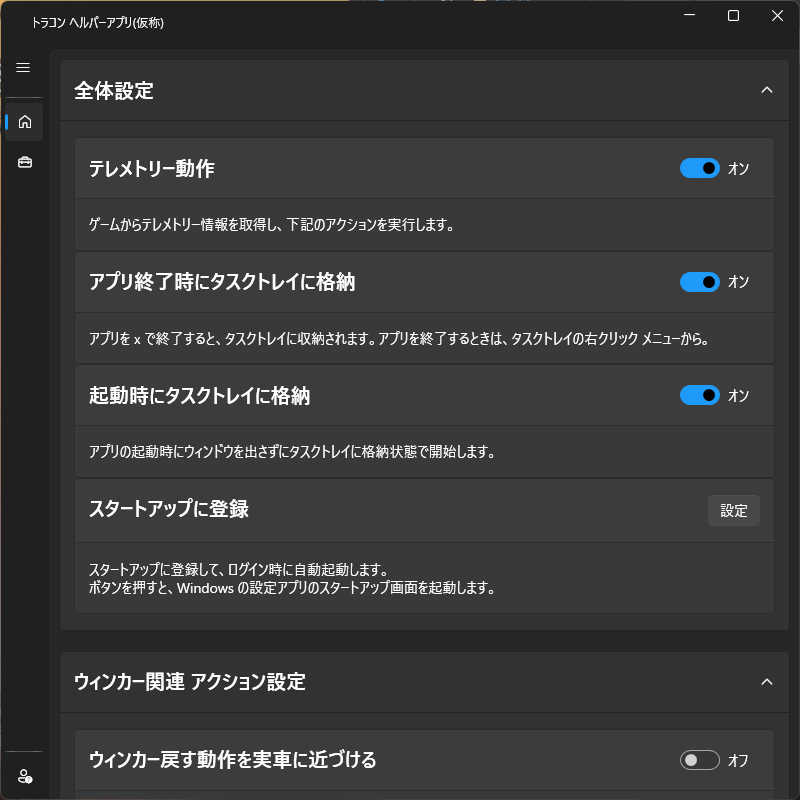
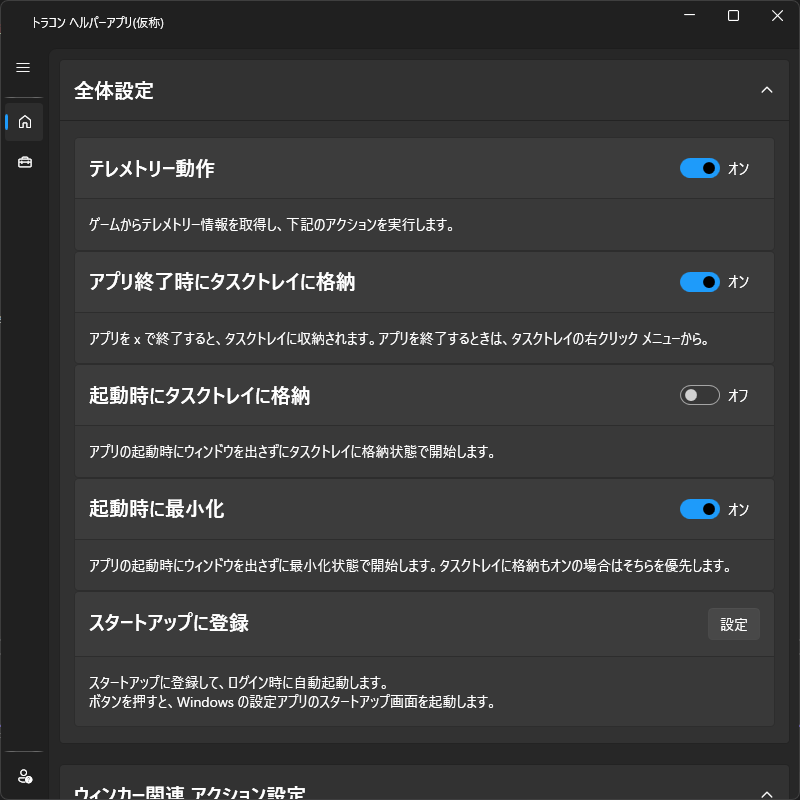
Feature/add minimize on start (#79)

diff --git a/ToraConHelper/Views/HomePage.xaml b/ToraConHelper/Views/HomePage.xaml
@@ -89,6 +89,19 @@
                             <ColumnDefinition />
                             <ColumnDefinition Width="Auto" />
                         </Grid.ColumnDefinitions>
+                        <TextBlock Style="{StaticResource switchTitleTextBlockStyle}" Text="起動時に最小化" />
+                        <ui:ToggleSwitch Grid.Column="1" IsChecked="{Binding Path=MinimizeOnStart}" />
+                    </Grid>
+                    <ui:Card.Footer>
+                        <TextBlock Text="アプリの起動時にウィンドウを出さずに最小化状態で開始します。タスクトレイに格納もオンの場合はそちらを優先します。" />
+                    </ui:Card.Footer>
+                </ui:Card>
+                <ui:Card>
+                    <Grid>
+                        <Grid.ColumnDefinitions>
+                            <ColumnDefinition />
+                            <ColumnDefinition Width="Auto" />
+                        </Grid.ColumnDefinitions>
                         <TextBlock Style="{StaticResource switchTitleTextBlockStyle}" Text="スタートアップに登録" />
                         <ui:Button Grid.Column="1" Command="{Binding Path=RegisterStartupCommand}" Content="設定" />
                     </Grid>

diff --git a/ToraConHelper/Installer/InstallerWindow.xaml b/ToraConHelper/Installer/InstallerWindow.xaml
@@ -13,7 +13,7 @@
     mc:Ignorable="d">
     <Window.Resources>
         <Style TargetType="Button">
-            <Setter Property="Margin" Value="5,0" />
+            <Setter Property="Margin" Value="5,5,0,0" />
             <Setter Property="Padding" Value="5"/>
         </Style>
     </Window.Resources>

diff --git a/ToraConHelper/ViewModels/ViewModel.JsonSerialize.cs b/ToraConHelper/ViewModels/ViewModel.JsonSerialize.cs
@@ -12,6 +12,7 @@ public partial class ViewModel
             IsActive = IsActive,
             GoToTasktrayOnAppClose = GoToTasktrayOnAppClose,
             TaskTrayOnStart = TaskTrayOnStart,
+            MinimizeOnStart = MinimizeOnStart,
             LastShownPage = LastShownPage,
 
             BlinkerLikeRealCarActionEnabled = BlinkerLikeRealCarActionEnabled,
@@ -49,6 +50,7 @@ public partial class ViewModel
         IsActive = s.IsActive;
         GoToTasktrayOnAppClose = s.GoToTasktrayOnAppClose;
         TaskTrayOnStart = s.TaskTrayOnStart;
+        MinimizeOnStart = s.MinimizeOnStart;
         LastShownPage = s.LastShownPage;
 
         BlinkerLikeRealCarActionEnabled = s.BlinkerLikeRealCarActionEnabled;

diff --git a/ToraConHelper/Services/Settings.cs b/ToraConHelper/Services/Settings.cs
@@ -9,7 +9,7 @@ public class Settings
     public bool IsActive { get; set; } = true;
     public bool GoToTasktrayOnAppClose { get; set; } = false;
     public bool TaskTrayOnStart { get; set; } = false;
-
+    public bool MinimizeOnStart { get; set; } = false;
     public string? LastShownPage { get; set; } = null;
 
     public bool BlinkerLikeRealCarActionEnabled { get; set; } = false;

diff --git a/ToraConHelper/ViewModels/ViewModel.cs b/ToraConHelper/ViewModels/ViewModel.cs
@@ -64,6 +64,9 @@ public partial class ViewModel : ObservableObject, IDisposable
     [ObservableProperty]
     private bool taskTrayOnStart;
 
+    [ObservableProperty]
+    private bool minimizeOnStart;
+
     [RelayCommand]
     private void RegisterStartup() => Process.Start(SettingAppStartupUrl);
 

diff --git a/ToraConHelper/MainWindow.xaml.cs b/ToraConHelper/MainWindow.xaml.cs
@@ -36,6 +36,7 @@ public partial class MainWindow
 
         if (!viewModel.TaskTrayOnStart)
         {
+            WindowState = viewModel.MinimizeOnStart ? System.Windows.WindowState.Minimized : System.Windows.WindowState.Normal;
             this.Show();
         }
     }

diff --git a/README.md b/README.md
@@ -58,6 +58,10 @@ ETS2/ATS の [Telemetry SDK](https://modding.scssoft.com/wiki/Documentation/Engi
 * このアプリケーションを再度起動したときに、画面を表示させずにタスクトレイに常駐します。
 * 画面を表示したいときはタスクトレイのアイコンをダブルクリック、または右クリック → 表示 を選択します。
 
+#### 起動時に最小化
+* このアプリケーションを再度起動したときに、画面を最小化した状態にします。
+* [起動時にタスクトレイに格納](#起動時にタスクトレイに格納) をオンにしている場合は、そちらを優先します。
+
 #### スタートアップに登録
 * Windows ユーザーのログイン時に自動的にこのアプリを起動するように設定できます。
   * 既定で On になっていますので、必要に応じて変更してください。
